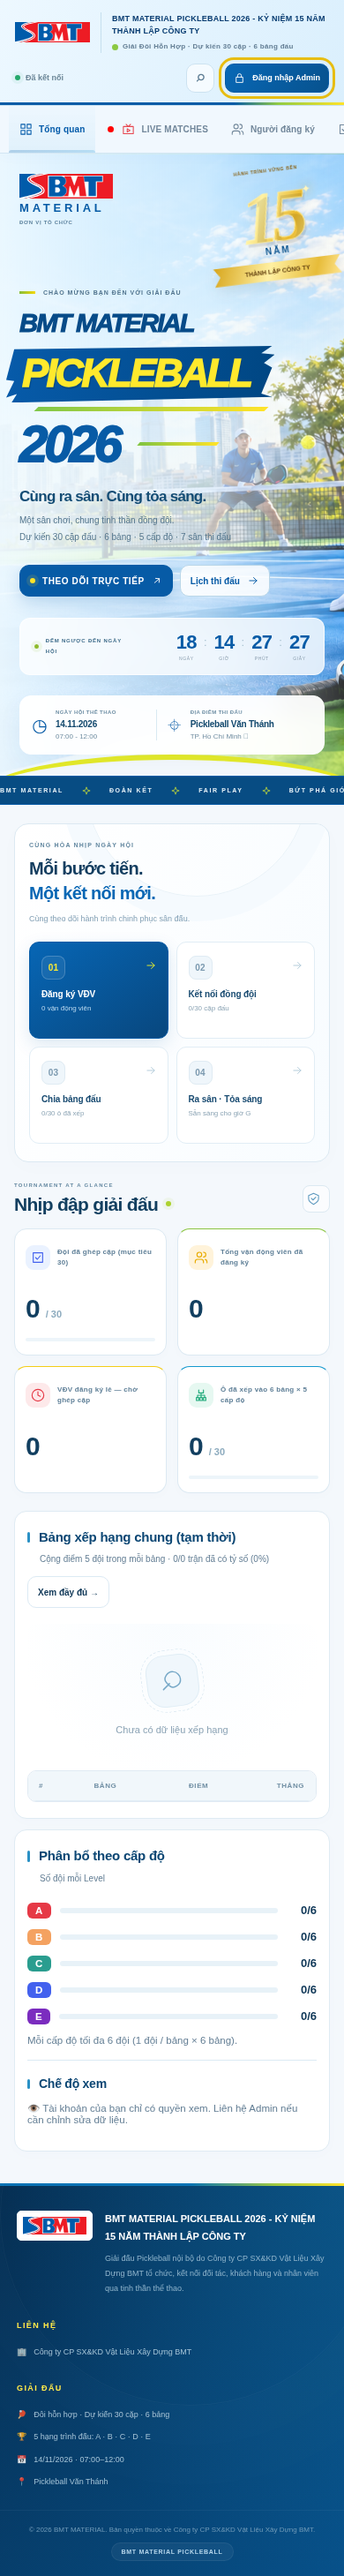
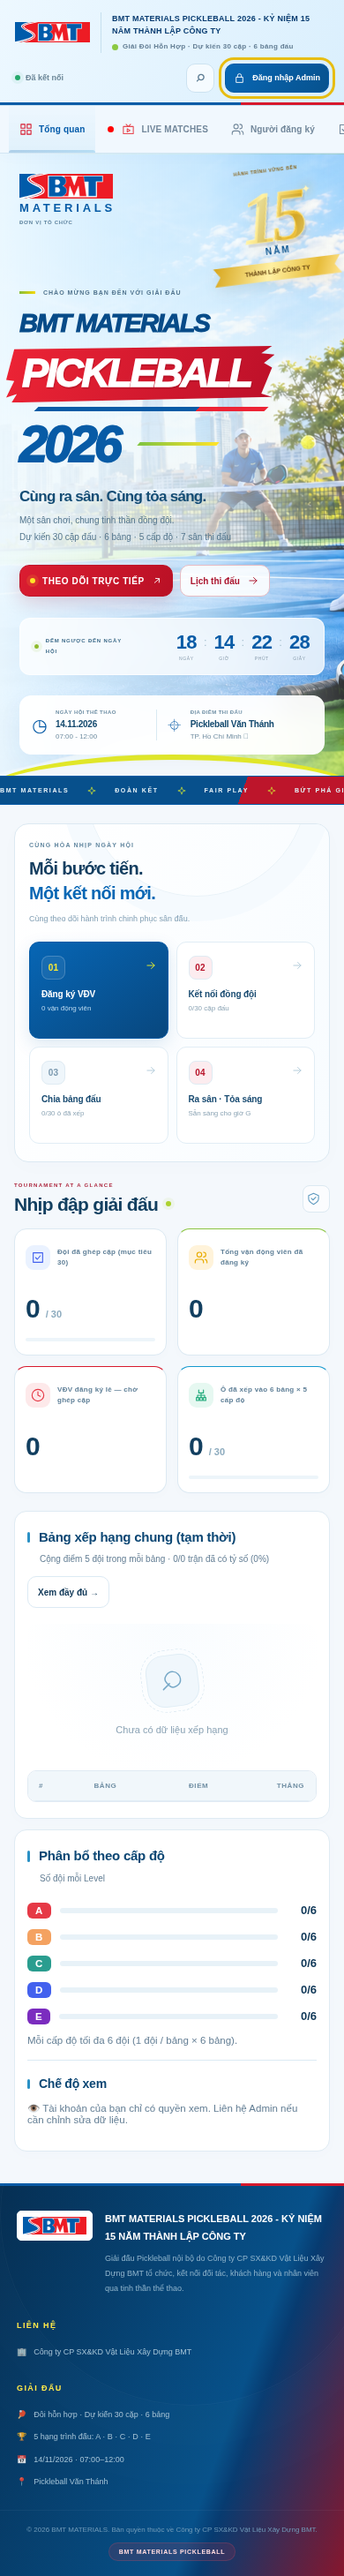
Restore BMT Materials branding and balance blue with red accents

diff --git a/public/admin-help.html b/public/admin-help.html
@@ -1,3 +1,3 @@
-<!doctype html><html lang="vi"><head><meta charset="utf-8"><meta name="viewport" content="width=device-width,initial-scale=1"><title>Hỗ trợ tài khoản Admin · BMT Material</title><link rel="icon" href="assets/bmt-logo.svg" type="image/svg+xml"><style>
+<!doctype html><html lang="vi"><head><meta charset="utf-8"><meta name="viewport" content="width=device-width,initial-scale=1"><title>Hỗ trợ tài khoản Admin · BMT Materials</title><link rel="icon" href="assets/bmt-logo.svg" type="image/svg+xml"><style>
 *{box-sizing:border-box}body{margin:0;font-family:'Segoe UI',Arial,sans-serif;color:#174567;background:radial-gradient(ellipse at top right,#d5f0ff,transparent 60%),#f4f8fc;line-height:1.8}main{max-width:880px;padding:45px 24px 70px;margin:auto}header{display:flex;align-items:center;justify-content:space-between;margin-bottom:50px}img{width:145px}a{color:#075ba6}header a{text-decoration:none;font-size:12px}.eyebrow{font-size:10px;letter-spacing:2px;color:#7592a9;font-weight:750}h1{font-size:clamp(28px,5vw,42px);letter-spacing:-1.6px;line-height:1.3;margin:12px 0 17px}h2{font-size:19px;margin:0 0 13px}p,li{font-size:13px;color:#637f95}.lead{max-width:590px;margin-bottom:30px}section{background:#fff;border:1px solid #dce9f2;border-radius:18px;padding:27px;margin:17px 0}code{background:#edf5fb;color:#075ba6;padding:3px 7px;border-radius:5px;font-size:12px}pre{background:#073b66;color:#e4f2fb;border-radius:11px;padding:16px;overflow:auto}pre code{background:none;color:inherit;padding:0}strong{color:#245473}.note{background:#e9f6ef;border:1px solid #d5eadd;padding:13px 17px;border-radius:10px;color:#387952;font-size:12px}.number{display:inline-grid;place-items:center;width:26px;height:26px;background:#edf5fb;border-radius:8px;margin-right:9px;color:#075ba6;font-size:12px}footer{font-size:10px;color:#95acbd;margin-top:30px}@media(max-width:520px){main{padding:27px 18px 45px}header{margin-bottom:36px}section{padding:22px 18px}img{width:110px}}
-</style></head><body><main><header><img src="assets/bmt-logo.svg" alt="BMT Material"><a href="/">← Quay lại giải đấu</a></header><p class="eyebrow">HỖ TRỢ BAN TỔ CHỨC</p><h1>Lấy lại quyền truy cập.<br>Tiếp tục cùng giải đấu.</h1><p class="lead">Việc tạo lại giải chỉ xóa dữ liệu thi đấu. Tài khoản, quyền và mật khẩu của Ban tổ chức được giữ nguyên.</p><section><h2><span class="number">01</span> Nếu vừa cài bản mới</h2><p>Cài đặt mới tạo tài khoản khởi tạo <code>admin</code>, mật khẩu <code>admin123</code>. Đăng nhập rồi đổi mật khẩu trong <strong>Quản lý người dùng</strong>.</p><p>Nếu đã đổi mật khẩu, hãy dùng mật khẩu bạn đã đặt. Mật khẩu khởi tạo không thay thế mật khẩu của tài khoản đang có.</p></section><section><h2><span class="number">02</span> Nếu quên mật khẩu hoặc mất quyền Admin</h2><p>Người quản lý máy chủ mở terminal tại thư mục ứng dụng, dừng server rồi chạy:</p><pre><code>npm run admin:recover</code></pre><p>Nhập tên tài khoản cần khôi phục (mặc định <code>admin</code>) và mật khẩu mới ít nhất 8 ký tự. Mật khẩu không hiển thị khi gõ. Sau đó khởi động lại:</p><pre><code>npm start</code></pre><p class="note">Chỉ cập nhật tài khoản được chọn. Công cụ không xóa hoặc thay đổi VĐV, đội, lịch, tỷ số hay LIVE.</p><p>Quá trình này cần quyền truy cập máy chủ. Trang web không có nút đặt lại mật khẩu Admin công khai.</p></section><section><h2><span class="number">03</span> Nếu đang mở source trên máy tính</h2><p>Ứng dụng cần chạy qua server. Từ thư mục source, dùng <code>npm ci</code> và <code>npm start</code>, rồi mở địa chỉ do terminal hiển thị. Không dùng file <code>index.html</code> mở trực tiếp để đăng nhập vào database.</p></section><footer>BMT Material Pickleball 2026 · Công cụ quản lý giải đấu</footer></main></body></html>
+</style></head><body><main><header><img src="assets/bmt-logo.svg" alt="BMT Materials"><a href="/">← Quay lại giải đấu</a></header><p class="eyebrow">HỖ TRỢ BAN TỔ CHỨC</p><h1>Lấy lại quyền truy cập.<br>Tiếp tục cùng giải đấu.</h1><p class="lead">Việc tạo lại giải chỉ xóa dữ liệu thi đấu. Tài khoản, quyền và mật khẩu của Ban tổ chức được giữ nguyên.</p><section><h2><span class="number">01</span> Nếu vừa cài bản mới</h2><p>Cài đặt mới tạo tài khoản khởi tạo <code>admin</code>, mật khẩu <code>admin123</code>. Đăng nhập rồi đổi mật khẩu trong <strong>Quản lý người dùng</strong>.</p><p>Nếu đã đổi mật khẩu, hãy dùng mật khẩu bạn đã đặt. Mật khẩu khởi tạo không thay thế mật khẩu của tài khoản đang có.</p></section><section><h2><span class="number">02</span> Nếu quên mật khẩu hoặc mất quyền Admin</h2><p>Người quản lý máy chủ mở terminal tại thư mục ứng dụng, dừng server rồi chạy:</p><pre><code>npm run admin:recover</code></pre><p>Nhập tên tài khoản cần khôi phục (mặc định <code>admin</code>) và mật khẩu mới ít nhất 8 ký tự. Mật khẩu không hiển thị khi gõ. Sau đó khởi động lại:</p><pre><code>npm start</code></pre><p class="note">Chỉ cập nhật tài khoản được chọn. Công cụ không xóa hoặc thay đổi VĐV, đội, lịch, tỷ số hay LIVE.</p><p>Quá trình này cần quyền truy cập máy chủ. Trang web không có nút đặt lại mật khẩu Admin công khai.</p></section><section><h2><span class="number">03</span> Nếu đang mở source trên máy tính</h2><p>Ứng dụng cần chạy qua server. Từ thư mục source, dùng <code>npm ci</code> và <code>npm start</code>, rồi mở địa chỉ do terminal hiển thị. Không dùng file <code>index.html</code> mở trực tiếp để đăng nhập vào database.</p></section><footer>BMT Materials Pickleball 2026 · Công cụ quản lý giải đấu</footer></main></body></html>

diff --git a/public/experience.css b/public/experience.css
@@ -151,3 +151,24 @@ button{position:relative;overflow:hidden;}
 @media(min-width:1650px){.live-dashboard{grid-template-columns:minmax(0,1fr) 340px;}.live-dashboard>.live-grid{grid-template-columns:repeat(3,minmax(0,1fr));}}
 @media(max-width:1100px){.live-dashboard{grid-template-columns:minmax(0,1fr) 280px;gap:14px;}.live-dashboard>.live-grid{grid-template-columns:minmax(0,1fr);}}
 @media(max-width:760px){.live-dashboard{grid-template-columns:minmax(0,1fr);}.live-sidebar{position:relative;top:auto;}.live-sidebar-panel{max-height:440px;}}
+
+/* BMT blue/red balance: blue surfaces lead; red marks the main action and selected accents. */
+:root{--brand-red:#d7192d;--brand-red-dark:#b91025;--brand-red-soft:#fff0f2;}
+.topbar::after,.site-footer::before{background:linear-gradient(90deg,#075ba6 0 70%,var(--brand-red) 70% 100%);}
+.tab-btn.active{border-bottom-color:var(--brand-red);}.tab-btn.active .ux-icon{color:var(--brand-red);}
+.event-sport{color:#fff;text-shadow:1px 2px 0 #780b2040;}.event-sport::before{background:linear-gradient(110deg,#ed2435,#bc1029);}.event-sport::after{background:linear-gradient(90deg,#075ba6 70%,#ed2435 70%);}
+.event-primary{background:linear-gradient(120deg,#db1d31,#b91025);border-color:#bd1428;box-shadow:0 7px 20px #bd142828;}.event-primary:hover{background:linear-gradient(120deg,#eb293d,#c8172d);box-shadow:0 9px 24px #bd142838;}
+.event-secondary{border-color:#e6bbc3;color:#ac1730;background:#ffffffde;}.event-secondary:hover{background:#fff1f3;border-color:#d36c7d;}
+.ux-event-ticker{background:linear-gradient(110deg,#07508c 0 70%,#bd152b 70% 100%);}
+.ux-journey-step:nth-child(2) .ux-step-number,.ux-journey-step:nth-child(4) .ux-step-number{color:#b8162c;background:#fcecef;}
+.ux-journey-step:nth-child(2):hover,.ux-journey-step:nth-child(4):hover{border-color:#e7a3ad;box-shadow:0 8px 20px #be183011;}
+.stat-card:nth-child(3n){border-top-color:#d7192d;}.stat-card:nth-child(3n) .stat-icon{background:#fff0f2;color:#ba182c;}
+.ux-page-heading h2>.ux-icon{color:var(--brand-red);}.ux-page-tag{border-color:#ebccd2;background:#fff7f8;color:#b2172d;}
+.ux-overview-heading .ux-eyebrow,.ux-page-heading .ux-eyebrow{color:#ad2940;}
+.btn-primary{background:linear-gradient(135deg,#d91b30,#b71128);border-color:#bd152c;box-shadow:0 4px 12px #bd152c1a;}.btn-primary:hover{background:linear-gradient(135deg,#eb293e,#c21930);}
+.pill.active{background:#bb1630;border-color:#bb1630;color:#fff;box-shadow:0 3px 8px #bb163020;}.pill.active:hover{background:#a91128;color:#fff;}
+.modal-head{border-bottom:2px solid #d7192d33;}.auth-screen{background:linear-gradient(110deg,#06477de8 0%,#06345cc9 70%,#a7112b99 100%),url('assets/bmt-court-hero.png') center/cover;}
+.live-wrap{background:radial-gradient(ellipse at top right,#c4143030,transparent 45%),radial-gradient(ellipse at top left,#09639544,transparent 65%),linear-gradient(145deg,#042e53,#071d38);}
+.live-sidebar{border-top:3px solid #d82b40;}.live-sidebar-tabs button[aria-selected=true]{background:#b81931;border-color:#ec758666;}.live-sidebar-tabs button[aria-selected=true]:hover{background:#cd2039;}
+.live-score-btn{background:#bc1b3526;border-color:#e06b7c55;color:#ffdce2;}.live-score-btn:hover{background:#bc1b354a;}
+.site-footer{background:linear-gradient(110deg,#062f53 0%,#07518a 65%,#073b70 70%,#87162d 100%);}.footer-bottom .footer-tag{background:#ce28412b;border-color:#e6587033;color:#ffdade;}

diff --git a/public/index.html b/public/index.html
@@ -3,7 +3,7 @@
 <head>
 <meta charset="UTF-8">
 <meta name="viewport" content="width=device-width, initial-scale=1.0">
-<title>BMT MATERIAL PICKLEBALL 2026 - KỶ NIỆM 15 NĂM THÀNH LẬP CÔNG TY</title>
+<title>BMT MATERIALS PICKLEBALL 2026 - KỶ NIỆM 15 NĂM THÀNH LẬP CÔNG TY</title>
 <link rel="icon" type="image/svg+xml" href="assets/bmt-logo.svg">
 <style>
 
@@ -1269,8 +1269,8 @@ fieldset legend{font-size:12px;font-weight:800;color:var(--navy);padding:0 6px;}
   <div class="auth-card" style="position:relative;">
     <button type="button" id="authClose" title="Đóng" style="position:absolute;top:10px;right:12px;background:none;border:none;font-size:20px;line-height:1;color:var(--muted);cursor:pointer;padding:4px 8px;">✕</button>
     <p class="ux-auth-eyebrow">CHÀO MỪNG BAN TỔ CHỨC</p>
-    <div class="auth-logo"><img src="assets/bmt-logo.svg" alt="BMT Material"></div>
-    <h1>BMT MATERIAL PICKLEBALL 2026 - KỶ NIỆM 15 NĂM THÀNH LẬP CÔNG TY</h1>
+    <div class="auth-logo"><img src="assets/bmt-logo.svg" alt="BMT Materials"></div>
+    <h1>BMT MATERIALS PICKLEBALL 2026 - KỶ NIỆM 15 NĂM THÀNH LẬP CÔNG TY</h1>
     <p class="auth-sub">Đăng nhập Admin để chỉnh sửa dữ liệu (thêm/sửa/xóa)</p>
     <form id="loginForm">
       <div class="form-row">
@@ -1295,9 +1295,9 @@ fieldset legend{font-size:12px;font-weight:800;color:var(--navy);padding:0 6px;}
 
 <div class="topbar">
   <div class="brand">
-    <div class="ball"><img src="assets/bmt-logo.svg" alt="BMT Material"></div>
+    <div class="ball"><img src="assets/bmt-logo.svg" alt="BMT Materials"></div>
     <div class="brand-text">
-      <h1>BMT MATERIAL PICKLEBALL 2026 - KỶ NIỆM 15 NĂM THÀNH LẬP CÔNG TY</h1>
+      <h1>BMT MATERIALS PICKLEBALL 2026 - KỶ NIỆM 15 NĂM THÀNH LẬP CÔNG TY</h1>
       <p><span class="live-dot"></span> Giải Đôi Hỗn Hợp · Dự kiến 30 cặp · 6 bảng đấu</p>
     </div>
   </div>
@@ -1342,9 +1342,9 @@ fieldset legend{font-size:12px;font-weight:800;color:var(--navy);padding:0 6px;}
 <footer class="site-footer">
   <div class="footer-inner">
     <div class="footer-brand">
-      <div class="ball"><img src="assets/bmt-logo.svg" alt="BMT Material"></div>
+      <div class="ball"><img src="assets/bmt-logo.svg" alt="BMT Materials"></div>
       <div>
-        <h3>BMT MATERIAL PICKLEBALL 2026 - KỶ NIỆM 15 NĂM THÀNH LẬP CÔNG TY</h3>
+        <h3>BMT MATERIALS PICKLEBALL 2026 - KỶ NIỆM 15 NĂM THÀNH LẬP CÔNG TY</h3>
         <p>Giải đấu Pickleball nội bộ do Công ty CP SX&KD Vật Liệu Xây Dựng BMT tổ chức, kết nối đối tác, khách hàng và nhân viên qua tinh thần thể thao.</p>
       </div>
     </div>
@@ -1365,8 +1365,8 @@ fieldset legend{font-size:12px;font-weight:800;color:var(--navy);padding:0 6px;}
     </div>
   </div>
   <div class="footer-bottom">
-    <p>© 2026 BMT MATERIAL. Bản quyền thuộc về Công ty CP SX&KD Vật Liệu Xây Dựng BMT.</p>
-    <span class="footer-tag">BMT MATERIAL PICKLEBALL</span>
+    <p>© 2026 BMT MATERIALS. Bản quyền thuộc về Công ty CP SX&KD Vật Liệu Xây Dựng BMT.</p>
+    <span class="footer-tag">BMT MATERIALS PICKLEBALL</span>
   </div>
 </footer>
 

diff --git a/public/app-render-1.js b/public/app-render-1.js
@@ -23,18 +23,18 @@ RENDERERS.overview = function(){
   const currentStep=journey.findIndex(step=>!step.done);
 
   return `
-  <section class="hero-banner event-hero" aria-label="BMT Material Pickleball 2026">
+  <section class="hero-banner event-hero" aria-label="BMT Materials Pickleball 2026">
     <div class="event-masthead">
       <div class="event-organizer">
-        <img class="event-logo" src="assets/bmt-logo.svg" alt="BMT Material">
-        <span>MATERIAL<span class="organizer-caption">ĐƠN VỊ TỔ CHỨC</span></span>
+        <img class="event-logo" src="assets/bmt-logo.svg" alt="BMT Materials">
+        <span>MATERIALS<span class="organizer-caption">ĐƠN VỊ TỔ CHỨC</span></span>
       </div>
       <span class="event-edition">KẾT NỐI ĐAM MÊ · BỨT PHÁ GIỚI HẠN</span>
     </div>
     <div class="event-stage">
       <div class="event-copy">
         <p class="event-eyebrow"><span></span> CHÀO MỪNG BẠN ĐẾN VỚI GIẢI ĐẤU</p>
-        <h1 class="event-title"><span class="event-brand">BMT MATERIAL</span><span class="event-sport">PICKLEBALL</span><span class="event-year">2026<span class="event-year-line"></span></span></h1>
+        <h1 class="event-title"><span class="event-brand">BMT MATERIALS</span><span class="event-sport">PICKLEBALL</span><span class="event-year">2026<span class="event-year-line"></span></span></h1>
         <p class="event-tagline">Cùng ra sân. Cùng tỏa sáng.</p>
         <p class="event-description">Một sân chơi, chung tinh thần đồng đội.<br>Dự kiến 30 cặp đấu · 6 bảng · 5 cấp độ · 7 sân thi đấu</p>
         <div class="event-cta">
@@ -55,7 +55,7 @@ RENDERERS.overview = function(){
       <div class="event-info-item"><span class="event-info-icon" aria-hidden="true">♧</span><div><span class="event-info-label">TINH THẦN GIẢI ĐẤU</span><strong>Đoàn kết · Fair Play</strong><span class="event-info-detail">KỶ NIỆM 15 NĂM THÀNH LẬP CÔNG TY</span></div></div>
     </div>
   </section>
-  <div class="ux-event-ticker" aria-hidden="true"><div class="ux-ticker-track">${[0,1].map(()=>`<span>BMT MATERIAL ${AppUX.icon('spark')} ĐOÀN KẾT ${AppUX.icon('spark')} FAIR PLAY ${AppUX.icon('spark')} BỨT PHÁ GIỚI HẠN ${AppUX.icon('spark')} 15 NĂM VỮNG BỀN ${AppUX.icon('spark')} PICKLEBALL 2026 ${AppUX.icon('spark')}</span>`).join('')}</div></div>
+  <div class="ux-event-ticker" aria-hidden="true"><div class="ux-ticker-track">${[0,1].map(()=>`<span>BMT MATERIALS ${AppUX.icon('spark')} ĐOÀN KẾT ${AppUX.icon('spark')} FAIR PLAY ${AppUX.icon('spark')} BỨT PHÁ GIỚI HẠN ${AppUX.icon('spark')} 15 NĂM VỮNG BỀN ${AppUX.icon('spark')} PICKLEBALL 2026 ${AppUX.icon('spark')}</span>`).join('')}</div></div>
   <div class="overview-content">
     <section class="ux-journey" aria-label="Hành trình giải đấu">
       <div class="ux-journey-intro"><p class="ux-eyebrow" id="uxRoleLabel">NGÀY HỘI THỂ THAO</p><h2>Mỗi bước tiến.<br><em>Một kết nối mới.</em></h2><span class="ux-journey-note">${isAdmin()?'Cùng chuẩn bị một giải đấu thật đáng nhớ.':'Cùng theo dõi hành trình chinh phục sân đấu.'}</span></div>

diff --git a/public/ui.js b/public/ui.js
@@ -32,7 +32,7 @@
   function header(tab,state){
     const item=tabs.find(t=>t[0]===tab);if(!item||tab==='overview')return '';
     const counts={players:`${state.teams.length*2+state.waiting.length} VĐV`,teams:`${state.teams.length} cặp đấu`,board:`${state.teams.filter(t=>t.group).length}/30 ô đã xếp`,matches:`${state.matches.filter(m=>!m.empty&&m.team1&&m.team2).length} trận đấu`,ranking:'Bảng thành tích',live:'7 sân thi đấu',rules:'Fair Play'};
-    return `<header class="ux-page-heading"><div><p class="ux-eyebrow">BMT MATERIAL <span> / </span> NGÀY HỘI THỂ THAO 2026</p><h2>${icon(tab)}${item[1]}</h2><p class="ux-page-description">${item[2]}</p></div><div class="ux-page-tag">${icon(tab==='live'?'live':'bolt')}<span>${counts[tab]}</span></div></header>`;
+    return `<header class="ux-page-heading"><div><p class="ux-eyebrow">BMT MATERIALS <span> / </span> NGÀY HỘI THỂ THAO 2026</p><h2>${icon(tab)}${item[1]}</h2><p class="ux-page-description">${item[2]}</p></div><div class="ux-page-tag">${icon(tab==='live'?'live':'bolt')}<span>${counts[tab]}</span></div></header>`;
   }
   function syncNav(){
     const nav=document.getElementById('tabbar');if(!nav)return;

diff --git a/public/export-board-excel.js b/public/export-board-excel.js
@@ -60,7 +60,7 @@ async function exportBoardToExcel(){
   }
   try{
     const wb = new ExcelJS.Workbook();
-    wb.creator = 'BMT MATERIAL PICKLEBALL 2026 - KỶ NIỆM 15 NĂM THÀNH LẬP CÔNG TY';
+    wb.creator = 'BMT MATERIALS PICKLEBALL 2026 - KỶ NIỆM 15 NĂM THÀNH LẬP CÔNG TY';
     wb.created = new Date();
     const ws = wb.addWorksheet('Chia bảng', {
       pageSetup: { orientation: 'landscape', paperSize: 9, fitToPage: true, fitToWidth: 1, fitToHeight: 0 },
@@ -72,7 +72,7 @@ async function exportBoardToExcel(){
     // ---- Tiêu đề ----
     ws.mergeCells(1, 1, 1, nCols);
     const titleCell = ws.getCell(1, 1);
-    titleCell.value = 'BMT MATERIAL PICKLEBALL 2026 - KỶ NIỆM 15 NĂM THÀNH LẬP CÔNG TY — CHIA BẢNG ĐẤU';
+    titleCell.value = 'BMT MATERIALS PICKLEBALL 2026 - KỶ NIỆM 15 NĂM THÀNH LẬP CÔNG TY — CHIA BẢNG ĐẤU';
     titleCell.font = { name: 'Arial', size: 16, bold: true, color: { argb: 'FF1F3864' } };
     titleCell.alignment = { horizontal: 'center', vertical: 'middle', wrapText: true };
     ws.getRow(1).height = 48;

diff --git a/db.js b/db.js
@@ -150,7 +150,7 @@ function getFullState() {
   return {
     version: 1,
     ...liveStore.read(),
-    eventName: (meta.eventName || Tournament.EVENT_NAME).replace(/^BMT MATERIALS PICKLEBALL/, 'BMT MATERIAL PICKLEBALL'),
+    eventName: (meta.eventName || Tournament.EVENT_NAME).replace(/^BMT MATERIAL PICKLEBALL/, 'BMT MATERIALS PICKLEBALL'),
     teams,
     waiting,
     matches,
@@ -207,7 +207,7 @@ const saveTx = db.transaction((state) => {
     });
   });
 
-  upsMeta.run({ key: 'eventName', value: (state.eventName || Tournament.EVENT_NAME).replace(/^BMT MATERIALS PICKLEBALL/, 'BMT MATERIAL PICKLEBALL') });
+  upsMeta.run({ key: 'eventName', value: (state.eventName || Tournament.EVENT_NAME).replace(/^BMT MATERIAL PICKLEBALL/, 'BMT MATERIALS PICKLEBALL') });
   upsMeta.run({ key: 'tournamentStatus', value: state.tournamentStatus || 'setup' });
   upsMeta.run({key:'liveCourts',value:JSON.stringify(state.liveCourts || Tournament.emptyState().liveCourts)});
   upsMeta.run({ key: 'updatedAt', value: String(now) });

diff --git a/public/export-matches-excel.js b/public/export-matches-excel.js
@@ -205,7 +205,7 @@ async function exportMatchesToExcel(){
   }
   try{
     const wb = new ExcelJS.Workbook();
-    wb.creator = 'BMT MATERIAL PICKLEBALL 2026 - KỶ NIỆM 15 NĂM THÀNH LẬP CÔNG TY';
+    wb.creator = 'BMT MATERIALS PICKLEBALL 2026 - KỶ NIỆM 15 NĂM THÀNH LẬP CÔNG TY';
     wb.created = new Date();
 
     const realMatches = STATE.matches.filter(m => !m.empty);
@@ -219,7 +219,7 @@ async function exportMatchesToExcel(){
     const allRows = matchesExportRowsAll(sorted);
     writeMatchSheet(
       wb, 'Tất cả',
-      'BMT MATERIAL PICKLEBALL 2026 - KỶ NIỆM 15 NĂM THÀNH LẬP CÔNG TY — LỊCH THI ĐẤU & TỶ SỐ (TẤT CẢ)',
+      'BMT MATERIALS PICKLEBALL 2026 - KỶ NIỆM 15 NĂM THÀNH LẬP CÔNG TY — LỊCH THI ĐẤU & TỶ SỐ (TẤT CẢ)',
       matchesExportSubtitle(allRows),
       MATCHES_EXPORT_COLS_ALL,
       allRows

diff --git a/public/tournament.js b/public/tournament.js
@@ -1,7 +1,7 @@
 /* Shared tournament configuration and validation. No participant/sample data. */
 (function(root){
   'use strict';
-  const EVENT_NAME = 'BMT MATERIAL PICKLEBALL 2026 - KỶ NIỆM 15 NĂM THÀNH LẬP CÔNG TY';
+  const EVENT_NAME = 'BMT MATERIALS PICKLEBALL 2026 - KỶ NIỆM 15 NĂM THÀNH LẬP CÔNG TY';
   const LEVELS = ['A','B','C','D','E'];
   const GROUPS = ['A','B','C','D','E','F'];
   const STORAGE_PREFIX = 'bmt-materials-2026-new-v2';

diff --git a/server.js b/server.js
@@ -186,7 +186,7 @@ app.get('/api/teams', (req, res) => {
 app.get('/api/health', (req, res) => res.json({ ok: true, time: Date.now() }));
 
 if(require.main===module) app.listen(PORT, () => {
-  console.log(`✅ BMT Material Pickleball server đang chạy tại http://localhost:${PORT}`);
+  console.log(`✅ BMT Materials Pickleball server đang chạy tại http://localhost:${PORT}`);
   console.log(`   Database: ${DB_PATH}`);
 });
 

diff --git a/public/app.js b/public/app.js
@@ -1,5 +1,5 @@
 /* =========================================================================
-   BMT MATERIAL PICKLEBALL 2026 — Tournament Manager
+   BMT MATERIALS PICKLEBALL 2026 — Tournament Manager
    Vanilla JS single-file app. Data persisted to localStorage.
    ========================================================================= */
 

diff --git a/public/brand-theme.css b/public/brand-theme.css
@@ -1,4 +1,4 @@
-/* BMT Material · outdoor court identity, supplied event reference (2026). */
+/* BMT Materials · outdoor court identity, supplied event reference (2026). */
 :root{
   --navy:#073b70;--navy2:#075ba6;--navy3:#006ec3;--blue-glow:#219ee6;
   --yellow:#ffe329;--yellow-dark:#e7bd12;--yellow-glow:#fff49c;
